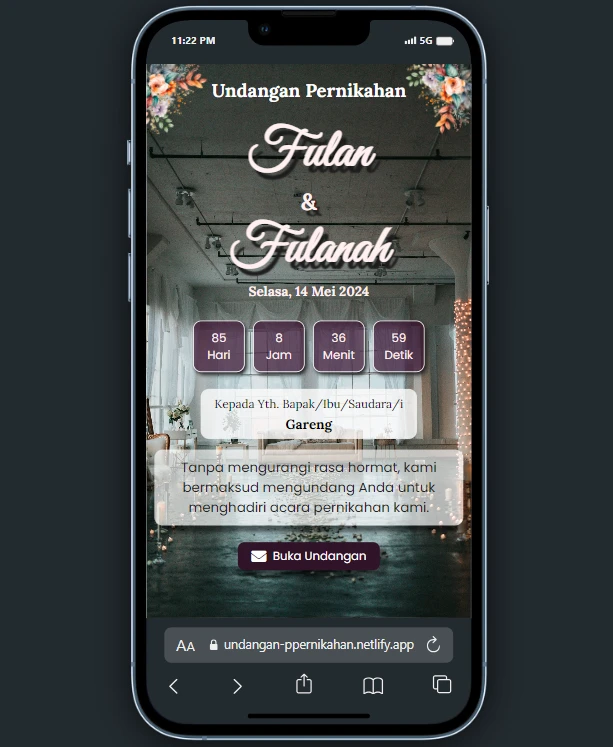
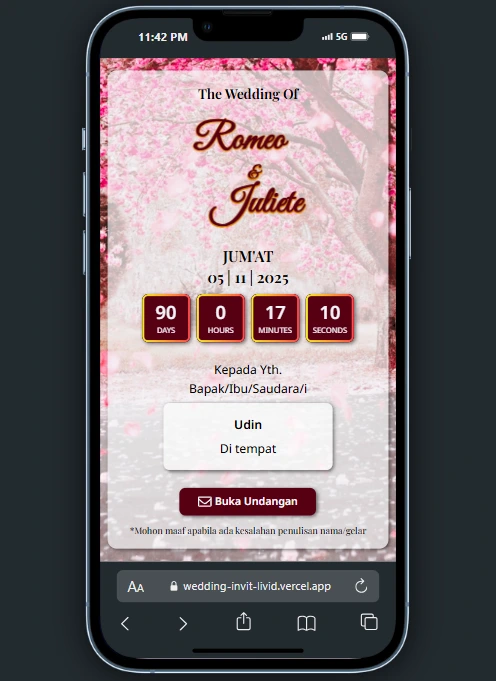
up

diff --git a/src/assets/img/assets.js b/src/assets/img/assets.js
@@ -137,10 +137,10 @@ export const projects = [
   {
     id: 3,
     title: "Wedding Invitation",
-    desc: `<p>This is a digital wedding invitation web application developed using <strong>React.js</strong>. The app is designed to provide a modern, elegant, and responsive invitation experience that can be accessed via mobile or desktop.</p><br /><p><strong>Key Features:</strong></p><ol class='list-decimal list-inside'><li>Countdown timer to the wedding date</li><li>Guest name personalization based on URL parameters</li><li>Formal invitation message display</li><li>Mobile-first design with responsive layout</li><li>One-click access to the invitation page</li><li>Hosted on Netlify for easy sharing</li></ol><br /><p><em>This application is still under improvement and can be customized further to suit different wedding themes and needs.</em></p>`,
+    desc: `<p>This is a digital wedding invitation web application developed using <strong>React.js</strong>. The app is designed to provide a modern, elegant, and responsive invitation experience that can be accessed via mobile or desktop.</p><br /><p><strong>Key Features:</strong></p><ol class='list-decimal list-inside'><li>Countdown timer to the wedding date</li><li>Guest name personalization based on URL parameters</li><li>Formal invitation message display</li><li>Mobile-first design with responsive layout</li><li>One-click access to the invitation page</li><li>Hosted on Vercel for easy sharing</li></ol><br /><p><em>This application is still under improvement and can be customized further to suit different wedding themes and needs.</em></p>`,
     image: assetsImg.img_p3,
-    liveDemo: "https://undangan-ppernikahan.netlify.app/?p=Nini&nama=Plinti",
-    githubLink: "https://github.com/hasbirizaldi",
+    liveDemo: "https://wedding-invit-livid.vercel.app/?to=udin#loveStory",
+    githubLink: "https://github.com/hasbirizaldi/wedding-invit",
   },
   {
     id: 4,

diff --git a/src/components/About.jsx b/src/components/About.jsx
@@ -16,7 +16,7 @@ const About = () => {
   return (
     <section id="about" className="min-h-[110vh] lg:min-h-[100vh] bg-[#fdfaf6] dark:bg-slate-900 duration-500 flex flex-row pt-20 ">
       <div className="w-[40%] lg:flex hidden justify-end" data-aos="zoom-in">
-        <img src={assetsImg.img_profile} alt="profile image" className="w-[500px] h-[500px] rounded-3xl shadow-ku mt-6" />
+        <img src={assetsImg.img_profile2} alt="profile image" className="w-[500px] h-[550px] object-cover object-bottom  rounded-full shadow-ku mt-6" />
       </div>
       <div className="lg:w-[60%] w-[100%] lg:px-20 px-4" data-aos="fade-right">
         <h1 className="text-3xl font-bold text-slate-600 dark:text-slate-200 mb-2 lg:text-left text-center ">About Me</h1>
